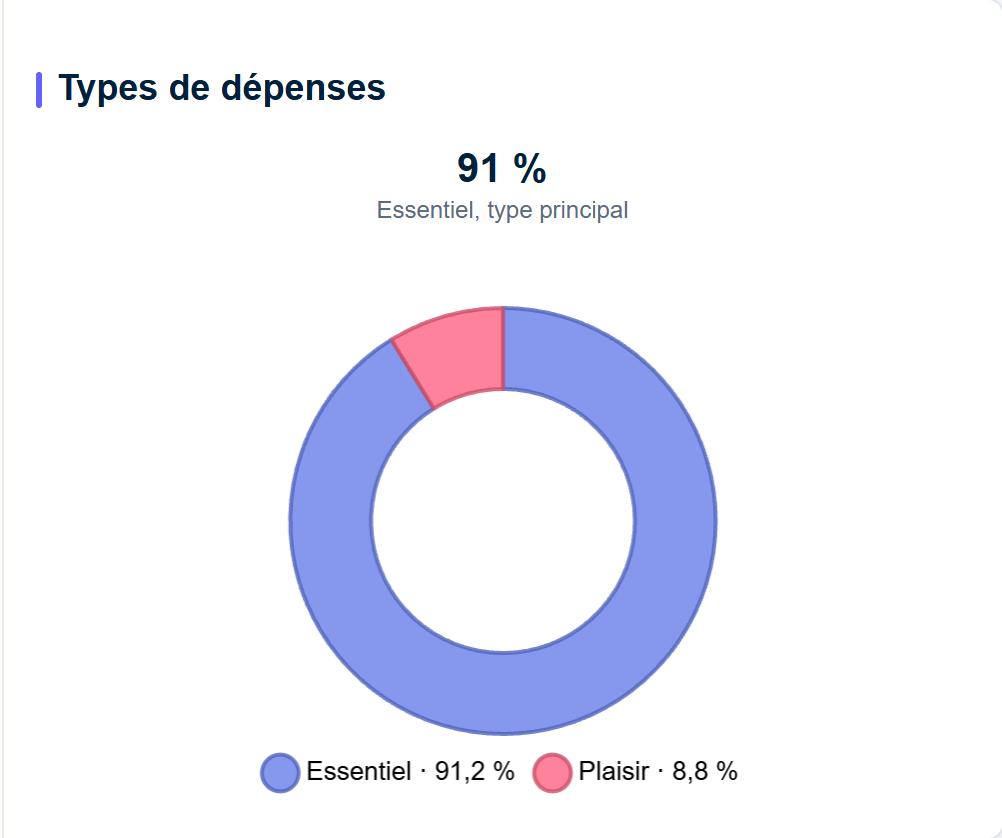
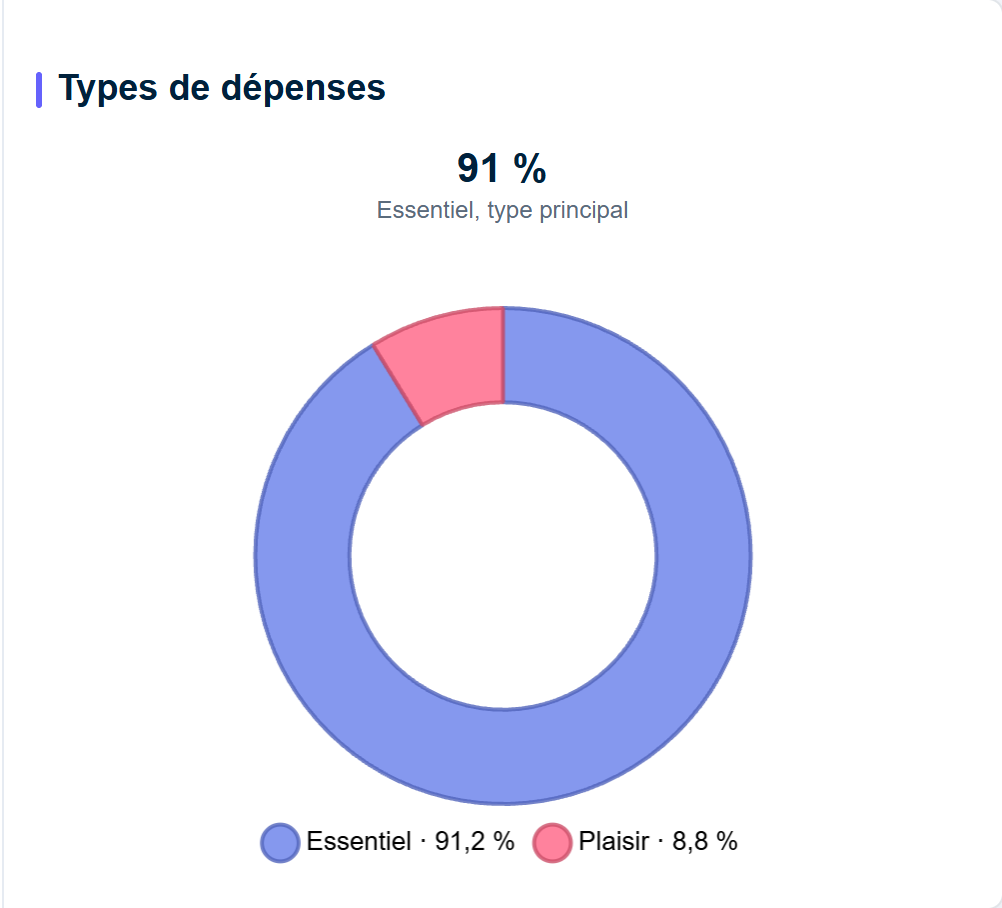
fix(ui): donuts des catégories et des types de dépenses à la même taille
Recette sur le vrai Bankin : notre donut faisait 165 px contre 195 pour
celui de Bankin. Même diamètre désormais, centres à la même hauteur.

diff --git a/js/ui/InjectedStyles.js b/js/ui/InjectedStyles.js
@@ -382,7 +382,8 @@ export class InjectedStyles {
                 }
             }
 
-            /* Donut de Bankin compact : marges internes de son SVG rognées */
+            /* Donut de Bankin compact : marges internes de son SVG rognées, centre
+               à la hauteur de celui des types de dépenses (légende dessous) */
             .pecunio-donut-wrapper .cntr.dtb.active {
                 display: block;
                 width: auto;
@@ -392,7 +393,7 @@ export class InjectedStyles {
                 display: block;
             }
             .pecunio-donut-wrapper #donutChart {
-                margin: -36px auto -24px !important;
+                margin: -18px auto -24px !important;
             }
 
             /* En-têtes des deux donuts au même format : chiffre, légende */

diff --git a/js/charts/ExpenseTypeChart.js b/js/charts/ExpenseTypeChart.js
@@ -57,7 +57,7 @@ export class ExpenseTypeChart extends BaseChartData {
         chartJsConfig.data = preparedData;
 
         // Même format que le donut de Bankin voisin : en-tête, donut, légende dessous
-        const { wrapper: expenseTypeWrapper, canvas: expenseTypeCanvas } = InjectedStyles.createDonutChart('Types de dépenses', '250px');
+        const { wrapper: expenseTypeWrapper, canvas: expenseTypeCanvas } = InjectedStyles.createDonutChart('Types de dépenses', '285px');
         const datasetValues = /** @type {number[]} */ (preparedData.datasets[0]?.data || []);
         expenseTypeWrapper.insertBefore(
             ExpenseTypeChart.createHeader(ExpenseTypeChart.mainType(preparedData.labels || [], datasetValues)),
